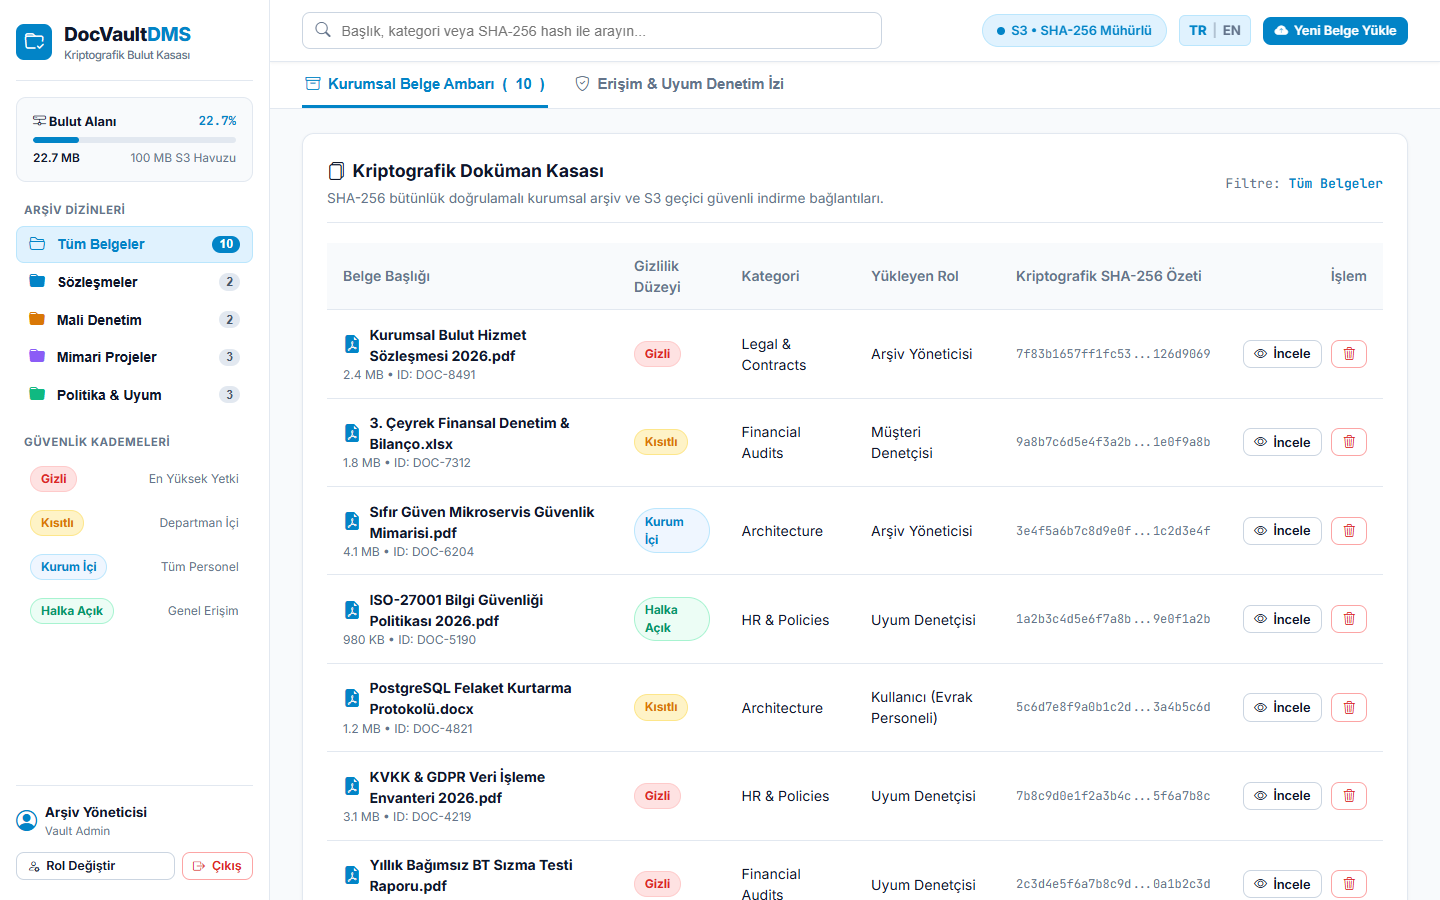
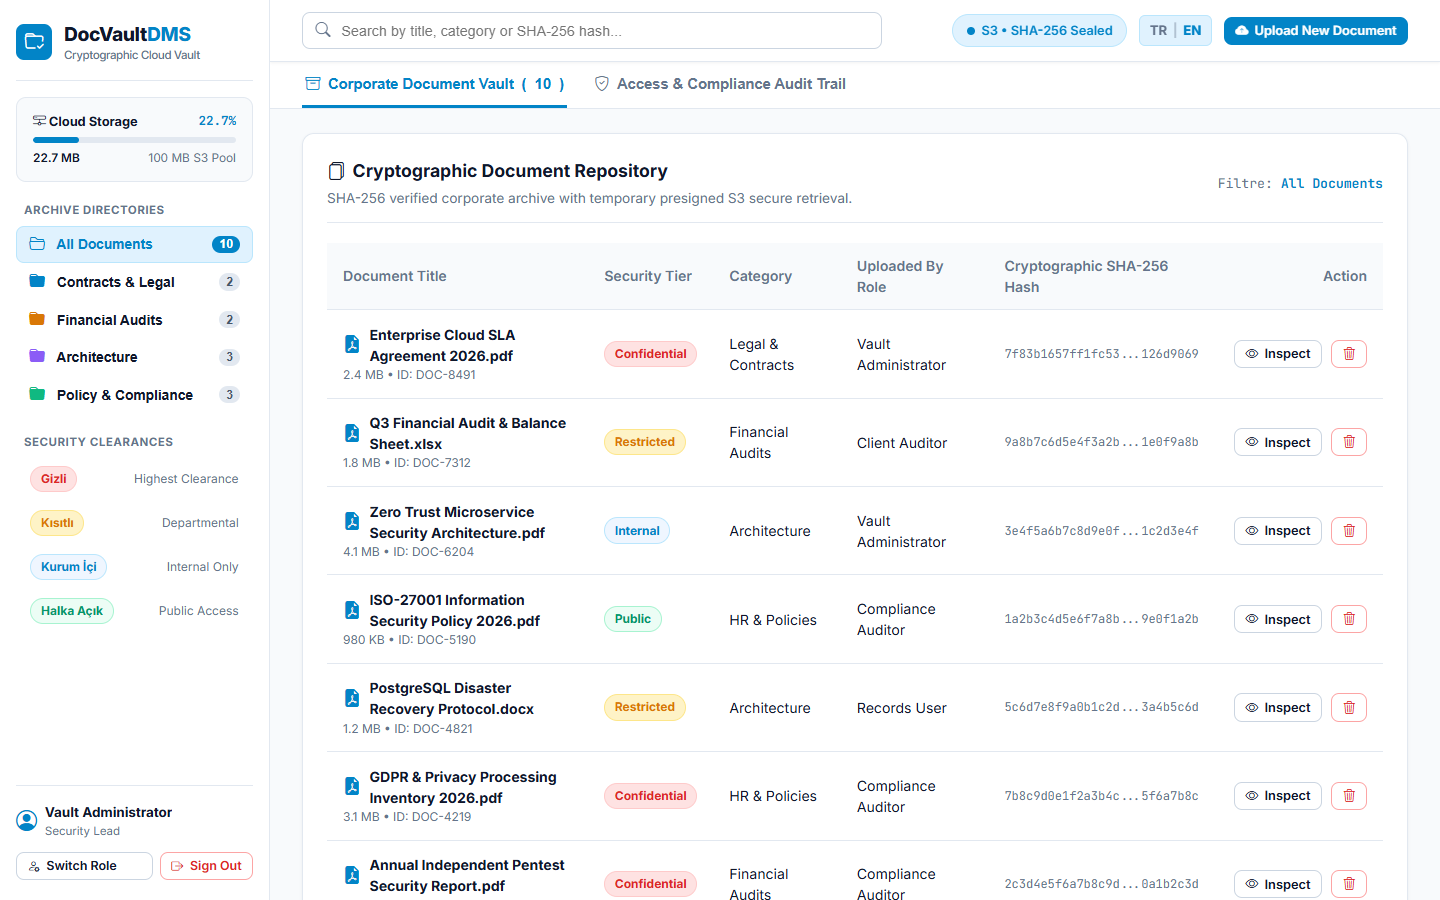
docs: clean English documentation without emojis, English screenshots and default locale

diff --git a/index.html b/index.html
@@ -1002,7 +1002,7 @@
   </div>
 
   <script>
-    let currentLang = localStorage.getItem('dv_lang') || 'tr';
+    let currentLang = localStorage.getItem('dv_lang') || 'en';
 
     const i18n = {
       tr: {

diff --git a/README.md b/README.md
@@ -1,105 +1,105 @@
-# DocVault DMS 🔐
-> **Kriptografik Bulut Belge Kasası • Google Drive & Box Mimarili Sıfır Bilgi (Zero-Knowledge) Arşivi**
+# DocVault DMS
+> Cryptographic Cloud Document Vault • Google Drive & Box Architecture
 
-[![Canlı Demo](https://img.shields.io/badge/Canl%C4%B1_Demo-docvaultdms.web.app-0284c7?style=for-the-badge&logo=google-chrome&logoColor=white)](https://docvaultdms.web.app)
-[![Lisans](https://img.shields.io/badge/Lisans-MIT-blue.svg?style=for-the-badge)](LICENSE)
-[![Teknoloji](https://img.shields.io/badge/Teknoloji-Vanilla_ES6%2B_No_Framework-yellow?style=for-the-badge&logo=javascript)](https://developer.mozilla.org)
-[![Arayüz](https://img.shields.io/badge/Tasar%C4%B1m-Cloud_Vault_Sidebar-082f49?style=for-the-badge&logo=css3)](https://developer.mozilla.org)
-[![Dil](https://img.shields.io/badge/Dil-T%C3%BCrk%C3%A7e_%7C_English-green?style=for-the-badge)](https://docvaultdms.web.app)
-
----
-
-## 📸 Canlı Önizleme (Previews)
-
-### 1. Kriptografik Doküman Kasası & Bulut Alanı
-Google Drive / Box mimarili sol klasör ağacı, S3 canlı depolama kotası kartı (`22.7 MB / 100 MB`), SHA-256 doğrulama özetleri ve **Kasadan Sil** aksiyonu:
-![DocVault DMS Kasa Önizleme](docs/preview-dashboard.png)
-
-### 2. Sıfır Bilgi (Zero-Knowledge) Siber Giriş Geçidi
-Siber radial ızgara zemin, glassmorphic buzlu cam kart, SHA-256 HMAC & AES-256 GCM durum şeridi, yetki kademeleri:
-![DocVault DMS Login Önizleme](docs/preview-login.png)
+[![Live Demo](https://img.shields.io/badge/Live_Demo-docvaultdms.web.app-0284c7?style=for-the-badge)](https://docvaultdms.web.app)
+[![License](https://img.shields.io/badge/License-MIT-blue.svg?style=for-the-badge)](LICENSE)
+[![Technology](https://img.shields.io/badge/Technology-Vanilla_ES6%2B-yellow?style=for-the-badge)](https://developer.mozilla.org)
+[![Interface](https://img.shields.io/badge/Interface-Cloud_Vault_Sidebar-082f49?style=for-the-badge)](https://developer.mozilla.org)
+[![Language Support](https://img.shields.io/badge/Language-English_%7C_Turkish-green?style=for-the-badge)](https://docvaultdms.web.app)
 
 ---
 
-## 🌟 Öne Çıkan Özellikler
+## Previews
 
-### 1. Sektöre Özgü Kriptografik Kasa Mimarisi
-- **Google Drive / Box Tarzı Kasa Navigasyonu (`.vault-sidebar`)**: Canlı depolama kotası kartı (`.vault-storage-card`), S3 havuz doluluk çubuğu, klasör filtreleri (*Sözleşmeler*, *Mali Denetim*, *Mimari Projeler*, *Politika & Uyum*) ve gizlilik kademeleri (*Gizli*, *Kısıtlı*, *Kurum İçi*, *Halka Açık*).
-- **Kriptografik SHA-256 Bütünlük Doğrulaması**: Yüklenen her dosya için SHA-256 hash parmak izi hesaplanır ve AWS S3 geçici güvenli indirme simülasyonu sunulur.
-- **Sıfır Bilgi (Zero-Knowledge) Siber Giriş Geçidi**: Uçtan uca şifreli oturum açma, HSM anahtarı doğrulama ve siber neon mavi atmosfer.
+### 1. Cryptographic Document Repository & Cloud Storage
+Google Drive / Box-style directory navigation sidebar, live S3 storage quota meter, SHA-256 integrity digests, and document deletion actions:
+![DocVault DMS Vault Preview](docs/preview-dashboard.png)
 
-### 2. Belge Silme & Canlı Kota İndirgeme
-- **Kasadan Belgeyi Sil (`promptDeleteDoc`)**: Her belgenin yanında kırmızı çöp kutusu butonu bulunur. Tıklandığında `#deleteDocModal` onay penceresi açılır.
-- **Reaktif S3 Kota Düşürme (`calculateStorage`)**: Silinen belgenin dosya boyutu (MB) S3 havuzundan anında düşer, doluluk yüzdesi geriler ve `DELETION_PURGE` denetim logu yazılır.
-- **Kalıcı `localStorage`**: Silinen belgeler `dv_docs_v2` anahtarıyla yerel hafızadan çıkarılır; yenilemelerde veri bütünlüğü korunur.
-
-### 3. Oturum Kalıcılığı (Session Persistence) & Zero-Flicker Başlangıç
-- **Sayfa Yenilemelerinde Oturumu Hatırla**: Başarılı kimlik doğrulamasında `localStorage.setItem('dv_logged_in', 'true')` kaydı yazılır.
-- **Sıfır Titreme (Zero-Flicker)**: Sayfa yenilendiğinde (F5) inline script kontrolü sayesinde giriş ekranı hiç açılmadan doğrudan kasa açılır.
-- **Güvenli Çıkış**: Sol alt kullanıcı alanındaki kırmızı **"Çıkış"** butonuna basıldığında oturum sonlandırılır.
-- **Hazır Demo Bilgileri**: Giriş ekranında arşivci kimliği ve şifre hazır girili gelir; altındaki hızlı rol butonlarıyla (`Arşiv Yöneticisi`, `Uyumluluk Denetçisi`, `Hukuk Danışmanı`, `Personel`) tek tıkla yetki değiştirilebilir.
-
-### 4. Çift Dilli Tam Destek (TR | EN)
-- Sağ üstteki `[ TR | EN ]` dil seçici ile tüm belge kategorileri, gizlilik etiketleri, denetim logları ve modal metinleri anında çevrilir.
-- Başlangıç varsayılan dili **Türkçe**'dir.
+### 2. Zero-Knowledge Cyber Gateway Login Portal
+Cyber radial grid background, glassmorphic card, SHA-256 HMAC and AES-256 GCM security status indicators, and clearance tier selector:
+![DocVault DMS Login Preview](docs/preview-login.png)
 
 ---
 
-## 🛠 Teknoloji Yığını (Tech Stack)
+## Key Features
 
-| Katman | Teknoloji | Açıklama |
+### Cryptographic Cloud Vault Architecture
+- Cloud Storage Navigation: Left sidebar featuring an active S3 storage capacity card, folder filters (Contracts, Financial Audits, Architecture Projects, Policy & Compliance), and classification levels (Confidential, Restricted, Internal, Public).
+- SHA-256 Integrity Verification: Computes cryptographic hash fingerprints for uploaded records and simulates Amazon S3 pre-signed secure download links.
+- Zero-Knowledge Security Gateway: Simulates client-side encryption and Hardware Security Module (HSM) clearance authentication.
+
+### Document Deletion & Reactive Storage Quota Reduction
+- Prominent delete action on every document record triggering an explicit confirmation dialog.
+- Reactive quota reduction: deleting a record immediately reclaims capacity from the S3 storage pool, updates the progress meter, and logs an audit record.
+- LocalStorage synchronization ensures purged records remain removed across browser reloads.
+
+### Session Persistence & Zero-Flicker Initialization
+- Preserves clearance session across browser refreshes via localStorage.
+- Inline authentication check prevents login screen flashes upon page reload.
+- Secure sign-out action clears session tokens and restores the cyber gateway.
+- Pre-filled credentials with instant role switches (Vault Administrator, Compliance Officer, Legal Counsel, Staff).
+
+### Bilingual Support (English | Turkish)
+- Instant language toggle switching all document categories, confidentiality levels, audit records, and modals without page reload.
+- Default language is English.
+
+---
+
+## Tech Stack
+
+| Layer | Technology | Description |
 | :--- | :--- | :--- |
-| **Arayüz (UI)** | HTML5, CSS3 Glassmorphism | Buzlu cam efektleri (`backdrop-filter`), siber ızgara arka plan |
-| **İş Mantığı** | Vanilla ES6+ JavaScript | S3 kota hesaplama, SHA-256 hash simülasyonu, filtreleme |
-| **İkonlar** | Bootstrap Icons v1.11.3 | Kripto ve dosya türü ikonları |
-| **Depolama** | HTML5 `localStorage` | Şifreli belge metaverisi, denetim izleri, oturum bilgisi |
-| **Yayın** | Firebase Hosting | Google CDN üzerinden güvenli HTTPS dağıtımı |
+| UI & Layout | HTML5, CSS3 Glassmorphism | Frosted glass cards, dark radial cyber grid |
+| Business Logic | Vanilla ES6+ JavaScript | Storage quota calculations, SHA-256 digest simulation, filtering |
+| Icons | Bootstrap Icons v1.11.3 | Cryptographic and file-type icons |
+| Storage | HTML5 localStorage | Encrypted document metadata, audit logs, session state |
+| Hosting | Firebase Hosting | Secure HTTPS global edge distribution |
 
 ---
 
-## 📁 Proje Dizin Yapısı
+## Directory Structure
 
 ```
 DocVault-DMS/
-├── index.html              # Kriptografik bulut kasası ve login geçidi
-├── docs/                   # Dokümantasyon ve ekran görüntüleri
-│   ├── preview-dashboard.png # Belge ambarı yüksek çözünürlüklü önizleme
-│   └── preview-login.png     # Zero-Knowledge siber geçit önizleme
-└── README.md               # Proje dokümantasyonu
+├── index.html              # Complete single-page application
+├── docs/                   # Documentation assets and screenshots
+│   ├── preview-dashboard.png # High-resolution repository preview
+│   └── preview-login.png     # High-resolution login portal preview
+└── README.md               # Project documentation
 ```
 
 ---
 
-## ⚡ Hızlı Başlangıç (Local Setup)
+## Getting Started
 
-1. Depoyu klonlayın:
+1. Clone the repository:
    ```bash
    git clone https://github.com/kubrvk/DocVault-DMS.git
    cd DocVault-DMS
    ```
-2. `index.html` dosyasını tarayıcınızda açın:
+2. Open `index.html` directly in your browser:
    ```bash
    start index.html
    ```
-3. Alternatif yerel HTTP sunucusu ile çalıştırmak için:
+3. Alternatively, serve with any local HTTP server:
    ```bash
    npx serve .
    ```
-4. Tarayıcınızda açılan adrese gidin.
-   - *Giriş ekranını atlayıp doğrudan belge kasasını açmak için:* `http://localhost:3000/?demo=1`
+4. Access `http://localhost:3000` in your browser.
+   - To bypass login and view the vault directly: `http://localhost:3000/?demo=1`
 
 ---
 
-## 🌐 Canlı Sistem
+## Live System
 
-- **Canlı URL**: [https://docvaultdms.web.app](https://docvaultdms.web.app)
-- **Doğrudan Demo Bağlantısı**: [https://docvaultdms.web.app/?demo=1](https://docvaultdms.web.app/?demo=1)
+- Live URL: [https://docvaultdms.web.app](https://docvaultdms.web.app)
+- Direct Dashboard Link: [https://docvaultdms.web.app/?demo=1](https://docvaultdms.web.app/?demo=1)
 
 ---
 
-## 👤 Geliştirici
+## Author
 
-**Developed by Beraat Yetkin**
+Developed by Beraat Yetkin
 - GitHub: [@kubrvk](https://github.com/kubrvk)
-- Proje Deposu: [DocVault-DMS](https://github.com/kubrvk/DocVault-DMS)
-- Portfolyo: [Beraat Yetkin Portfolio](https://github.com/kubrvk/portfolio)
+- Repository: [DocVault-DMS](https://github.com/kubrvk/DocVault-DMS)
+- Portfolio: [Beraat Yetkin Portfolio](https://github.com/kubrvk/portfolio)
